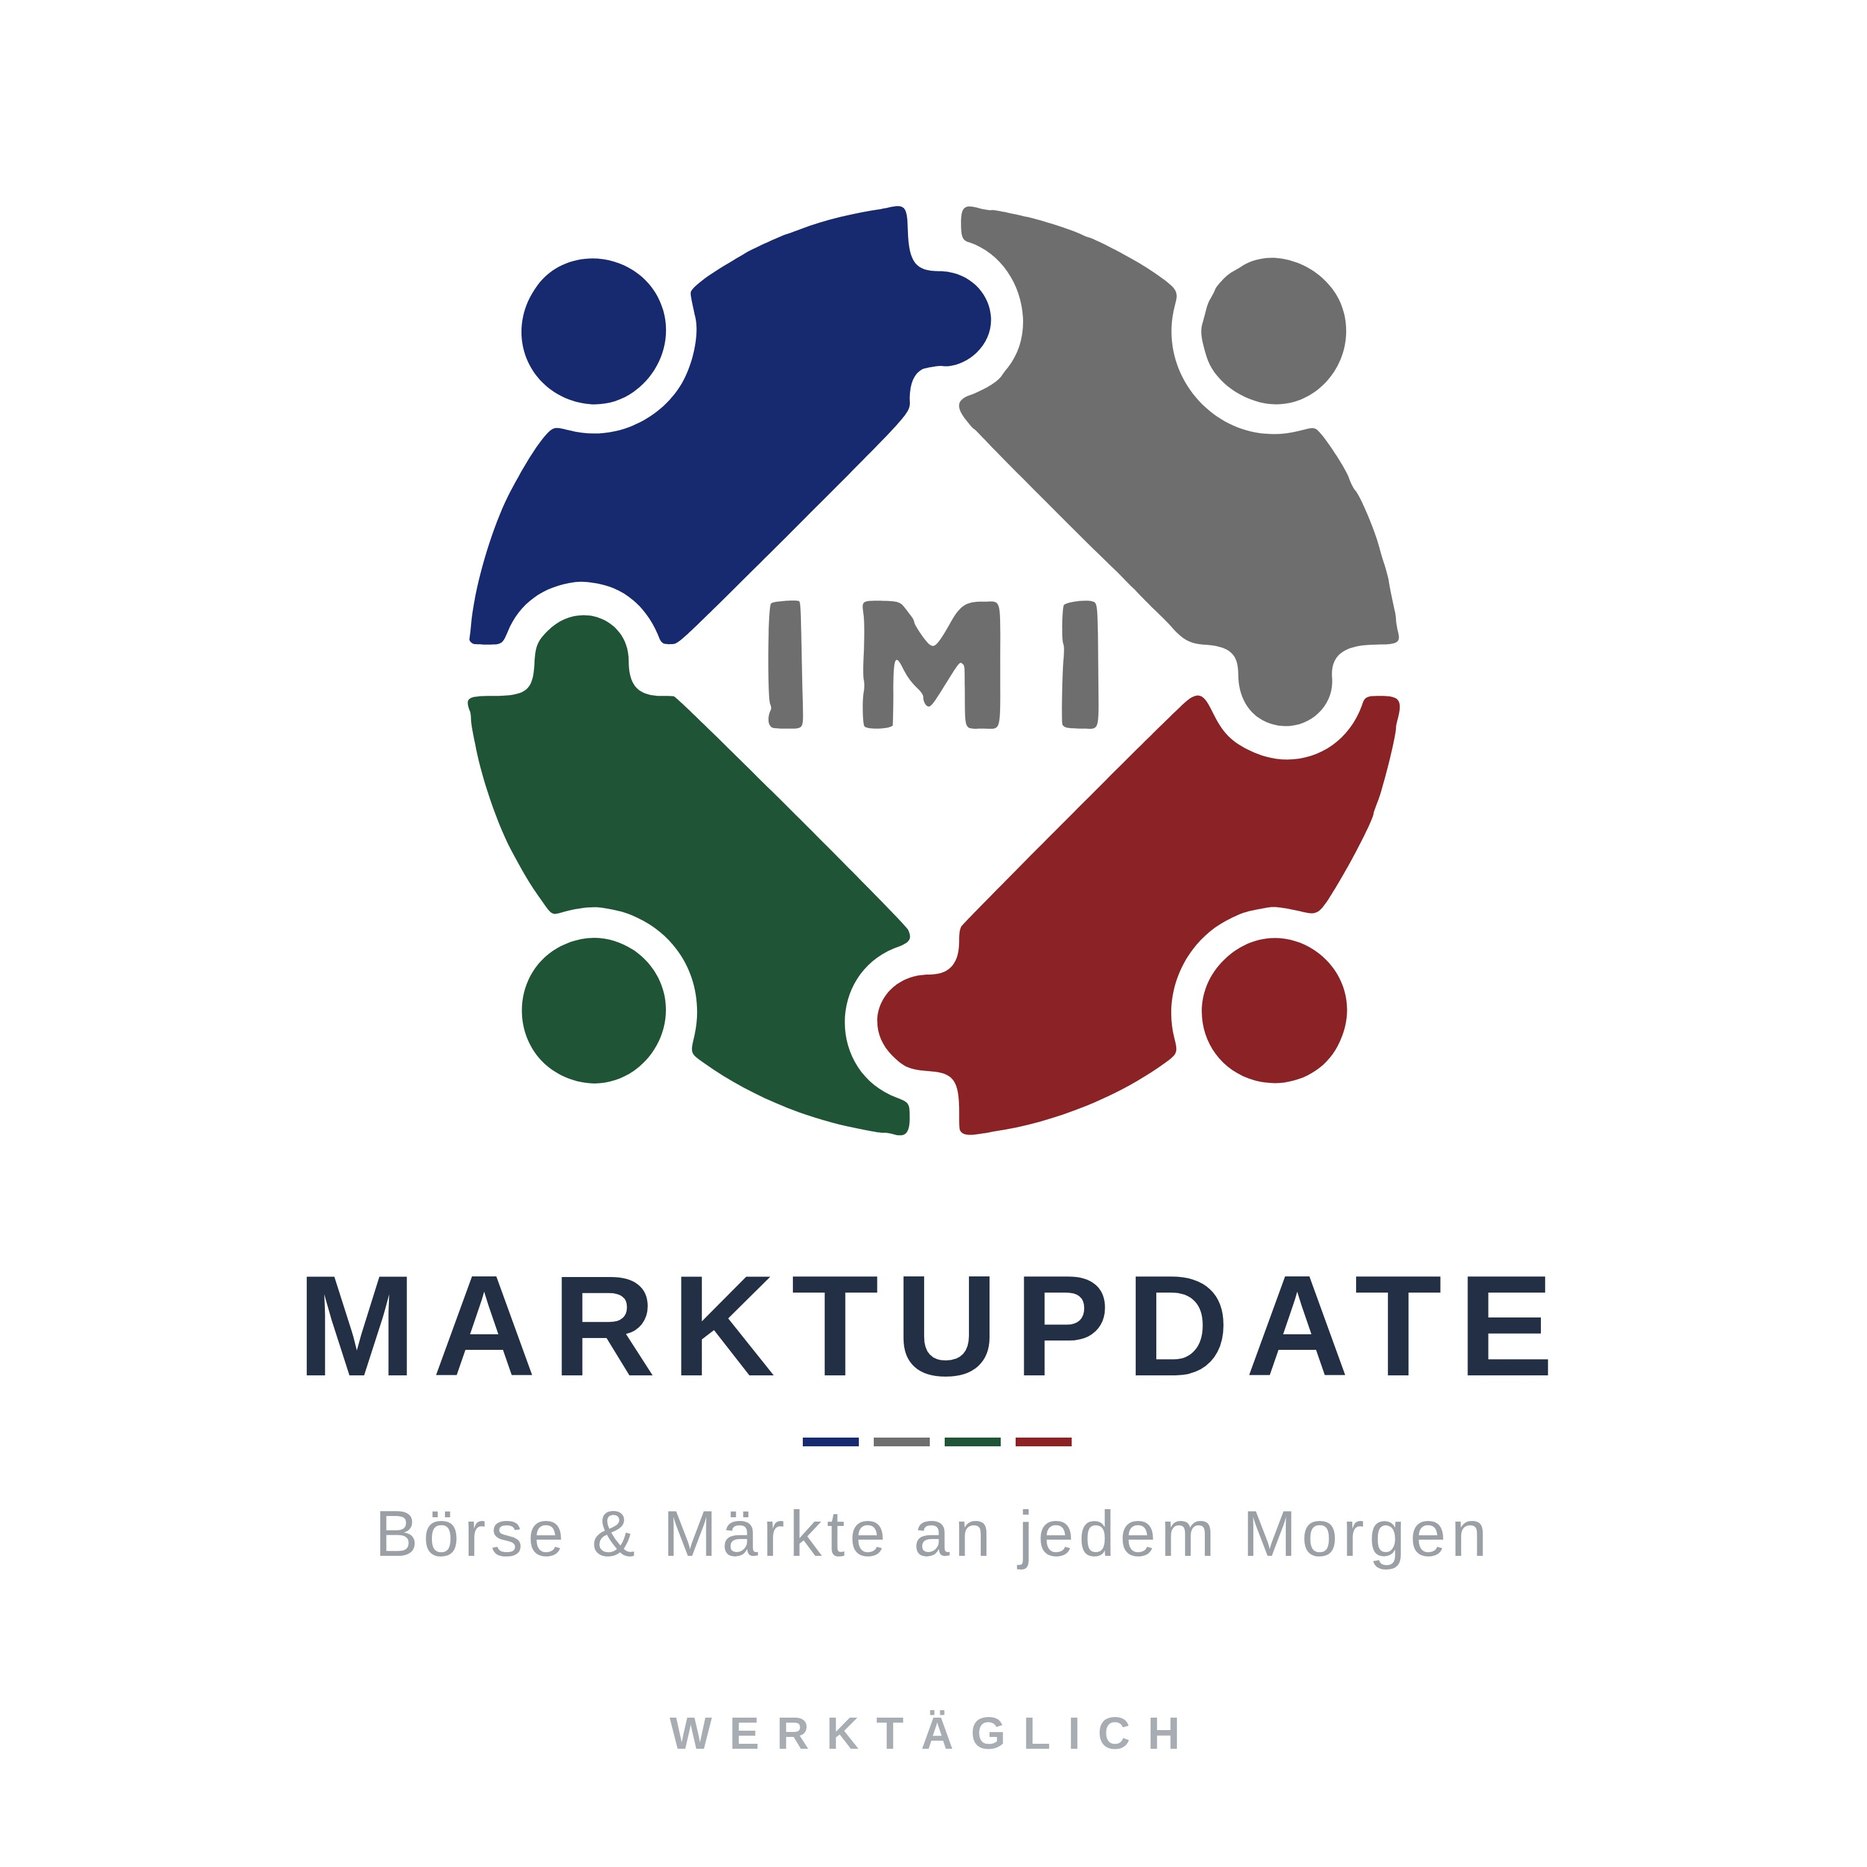
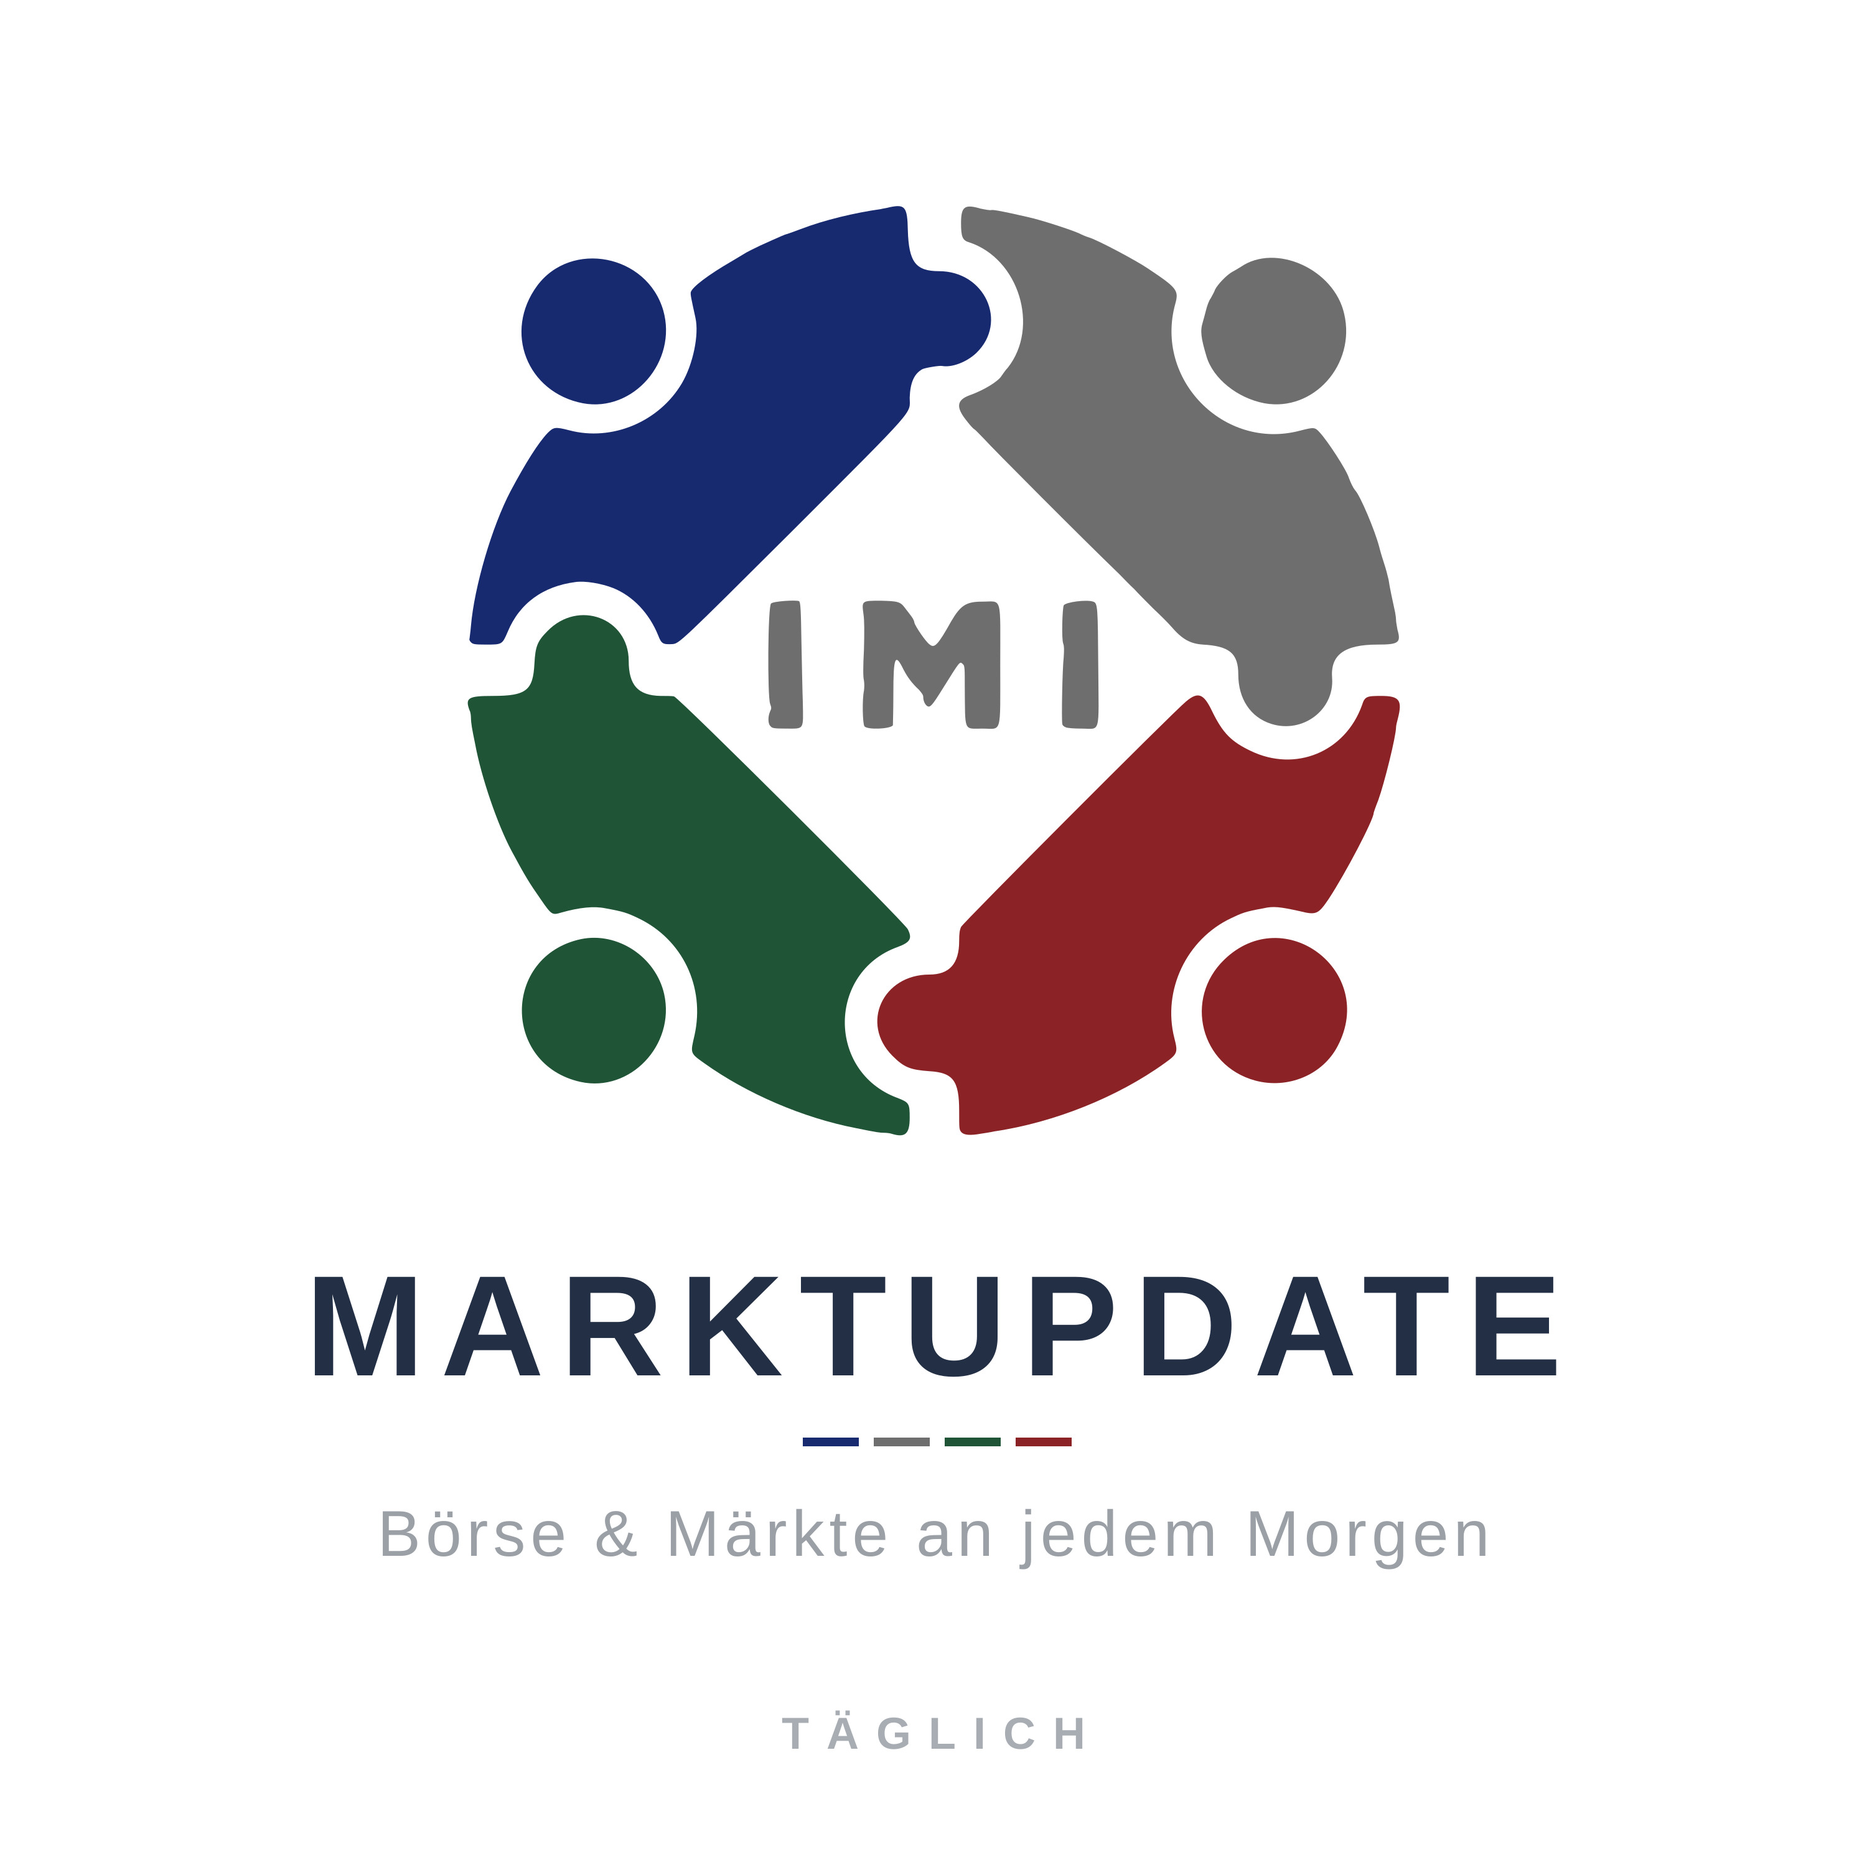
IM Invests statt IM Investments, und der Podcast erscheint taeglich
## Der Name

Die Marke heisst IM Invests. Die laengere Form stand an vier Stellen,
darunter in Begruessung und Abschluss jeder Folge -- sie wurde also jeden
Morgen zweimal laut ausgesprochen. Aufgefallen ist es beim Hoeren einer
Probe, nicht beim Lesen des Codes: Der falsche Name sieht plausibel aus,
weil er wie eine ausgeschriebene Fassung des richtigen wirkt. Deshalb steht
in tests/sprechfassung.test.ts jetzt eine Pruefung dagegen und nicht nur
eine Korrektur.

Nicht geaendert: assets/stimme-referenz.txt. Das ist kein Skript, sondern
die Mitschrift der Aufnahme -- sie gibt wieder, was gesagt wurde. Wer sie
berichtigt, verschiebt die Zuordnung von Laut zu Buchstabe fuer die ganze
Referenz und verschlechtert damit die geklonte Stimme, ohne dass irgendwo
etwas besser klaenge. Richtig wird es erst mit einer neuen Aufnahme; der
Grund steht im Kopf von scripts/stimme-erzeugen.py.

## Der Takt

Sieben Tage die Woche statt werktags. Das ist keine Zeile, sondern vier
Stellen:

1. Der Cron in podcast-erzeugen.yml (1-5 wird *), samt zweitem Eintrag fuer
   Sonntage und der Eingabe trotzdem.
2. Der Riegel im selben Workflow -- die Frage nach dem Erscheinungstag
   entfaellt, die nach dem doppelten Upload bleibt.
3. Derselbe Riegel im Anstoss aus kurse.yml, und mit ihm
   data/podcast-probetage.txt: eine Ausnahmeliste fuer ein Wochenende, an
   dem nichts erscheint, hat keinen Gegenstand mehr.
4. folgennummer() in lib/sprechfassung.ts.
[…]

diff --git a/lib/sprechfassung.ts b/lib/sprechfassung.ts
@@ -240,27 +240,46 @@ function zerlegeDatum(date: string): {
 }
 
 /**
- * Folgennummer: Werktage seit dem 30. Juli 2026, dem Tag der ersten Folge.
+ * Folgennummer – ab dem 10. August 2026 zählt **jeder** Tag.
  *
- * Die Zählung stammt aus der alten Arbeitsanweisung – 30.07. ist Folge 1,
- * 07.08. ist Folge 7 – und genau das ist die Zahl der Werktage im Zeitraum.
+ * Bis dahin erschien die Folge werktags, und die Nummer war die Zahl der
+ * Werktage seit dem 30. Juli 2026, dem Tag der ersten Folge: 30.07. ist
+ * Folge 1, 07.08. ist Folge 7. Sieben Folgen stehen so im Register.
  *
- * **An einem Probetag stimmt sie nicht.** Ein Wochenendtag zählt nicht mit,
- * also bekam die Probefolge vom Sonntag, dem 9. August 2026, dieselbe Nummer
- * wie die vom Freitag: beide 7. Solange werktags erscheint, ist das ohne
- * Folgen; eine Probe ist ohnehin dazu da, wieder zu verschwinden.
+ * Seit dem 9. August 2026 erscheint sie sieben Tage die Woche. Die Zählung
+ * einfach auf Kalendertage umzustellen, wäre falsch gewesen – der 10. August
+ * hätte dann Nummer 12 getragen, ein Sprung von 7 auf 12 mitten in der
+ * laufenden Reihe. Eine Folgennummer ist eine Ordnungszahl; sie darf keine
+ * Lücke bekommen, nur weil sich der Takt ändert.
  *
- * Wer den Podcast auf **täglich** umstellt (in `podcast-erzeugen.yml` ist das
- * eine Zeile), muss diese Funktion mit umstellen – sonst tragen Samstag,
- * Sonntag und Montag dieselbe Nummer. Die Zahl käme dann besser aus dem
- * Register selbst: die höchste vorhandene plus eins.
+ * Deshalb zwei Abschnitte mit einer Naht dazwischen:
+ *
+ *     bis 09.08.2026      Werktage seit dem 30.07.  →  7
+ *     ab  10.08.2026      7 + Kalendertage seit dem 09.08.
+ *
+ * Die Naht liegt auf dem 9. August, weil an diesem Tag keine Folge im
+ * Register steht: Die des Tages wurde zurückgenommen. Es gibt also keine
+ * veröffentlichte Nummer, die durch die Umstellung ihren Wert ändert.
+ *
+ * Bewusst ohne Blick ins Register: Diese Datei kommt ohne Laufzeitimporte
+ * aus, und eine Nummer, die von einer JSON-Datei abhängt, wäre in einem Test
+ * nicht mehr allein aus dem Datum vorhersagbar.
  */
+const TAKTWECHSEL = Date.UTC(2026, 7, 9, 12)
+const FOLGEN_BIS_TAKTWECHSEL = 7
+
 export function folgennummer(date: string): number {
   const start = Date.UTC(2026, 6, 30, 12)
   const ziel = (() => {
     const { jahr, monat, tag } = zerlegeDatum(date)
     return Date.UTC(jahr, monat - 1, tag, 12)
   })()
+
+  if (ziel > TAKTWECHSEL) {
+    const tage = Math.round((ziel - TAKTWECHSEL) / 86_400_000)
+    return FOLGEN_BIS_TAKTWECHSEL + tage
+  }
+
   let nummer = 0
   for (let t = start; t <= ziel; t += 86_400_000) {
     const wt = new Date(t).getUTCDay()
@@ -425,7 +444,7 @@ export function baueFolge(edition: DailyEdition): Podcastfolge {
     geschrieben wurde.
   */
   const einstieg =
-    `Guten Morgen und herzlich willkommen zum Marktupdate von IM Investments. ` +
+    `Guten Morgen und herzlich willkommen zum Marktupdate von IM Invests. ` +
     `Heute ist ${WOCHENTAGE[wochentag]}, der ${ordnungszahl(tag)} ${MONATE[monat - 1]} ` +
     `${zahlwort(jahr)}. ${sprechbar(edition.intro)}`
 
@@ -437,10 +456,16 @@ export function baueFolge(edition: DailyEdition): Podcastfolge {
   const lehre = alle[0]?.whyItMatters ?? ''
   const fazit = `Bleibt das Fazit. ${sprechbar(lehre)}`
 
+  /*
+    Ein Abschluss für alle Tage.
+
+    Bis zum 9. August 2026 stand freitags „Bis Montag früh, schönes
+    Wochenende" – richtig, solange samstags und sonntags nichts erschien.
+    Seither erscheint die Folge täglich, und der Satz wäre eine Ankündigung,
+    die nicht eintrifft: Am Samstag früh steht die nächste da.
+  */
   const abschluss =
-    wochentag === 5
-      ? 'Das war das Marktupdate von IM Investments. Alle Themen ausführlich und mit Einordnung findest du auf iminvests punkt de. Bis Montag früh, schönes Wochenende und viel Erfolg.'
-      : 'Das war das Marktupdate von IM Investments. Alle Themen ausführlich und mit Einordnung findest du auf iminvests punkt de. Bis morgen früh und viel Erfolg.'
+    'Das war das Marktupdate von IM Invests. Alle Themen ausführlich und mit Einordnung findest du auf iminvests punkt de. Bis morgen früh und viel Erfolg.'
 
   /*
     Erst alles mit Einordnung, dann von hinten kürzen: zuerst verlieren die

diff --git a/tests/sprechfassung.test.ts b/tests/sprechfassung.test.ts
@@ -98,7 +98,7 @@ const folge = baueFolge(edition)
 pruefe(
   'Sprechtext beginnt mit der festen Begrüßung',
   folge.sprechtext.startsWith(
-    'Guten Morgen und herzlich willkommen zum Marktupdate von IM Investments.'
+    'Guten Morgen und herzlich willkommen zum Marktupdate von IM Invests.'
   ),
   true
 )
@@ -106,6 +106,23 @@ pruefe(
   'Sprechtext endet auf „viel Erfolg.“',
   folge.sprechtext.endsWith('viel Erfolg.'),
   true
+)
+/*
+  Die Marke heißt **IM Invests**, nicht „IM Investments".
+
+  Bis zum 9. August 2026 stand die längere Form an vier Stellen, darunter in
+  Begrüßung und Abschluss jeder Folge – sie wurde also jeden Morgen zweimal
+  laut ausgesprochen. Aufgefallen ist es dem Betreiber beim Hören einer
+  Probe, nicht beim Lesen des Codes: Der falsche Name sieht plausibel aus,
+  weil er wie eine ausgeschriebene Fassung des richtigen wirkt.
+
+  Genau deshalb steht hier eine Prüfung und nicht nur eine Korrektur. Ein
+  Name, der sich von selbst „vervollständigt", kommt zurück.
+*/
+pruefe(
+  'Sprechtext nennt nirgends „IM Investments"',
+  /IM Investments/.test(folge.sprechtext),
+  false
 )
 pruefe('Fazit-Absatz vorhanden', folge.sprechtext.includes('Bleibt das Fazit.'), true)
 pruefe('keine Ziffern im Sprechtext', /\d/.test(folge.sprechtext), false)

diff --git a/scripts/podcast-feed-schreiben.ts b/scripts/podcast-feed-schreiben.ts
@@ -111,7 +111,7 @@ if (modus === 'eintragen') {
 
 /* Der Feed – in beiden Betriebsarten neu geschrieben. */
 const kopfBeschreibung =
-  'Dein tägliches Marktupdate von IM Investments. Werktäglich am Morgen fassen wir ' +
+  'Dein tägliches Marktupdate von IM Invests. Jeden Morgen fassen wir ' +
   'kompakt in rund fünf Minuten die wichtigsten Entwicklungen an den Finanzmärkten ' +
   'zusammen: Aktien, Anleihen, Rohstoffe, Notenbanken – immer mit Einordnung, was ' +
   'das für Privatanleger bedeutet. Text und Vertonung entstehen mit Unterstützung ' +

diff --git a/lib/instagram-bild.tsx b/lib/instagram-bild.tsx
@@ -6,7 +6,7 @@ import { ImageResponse } from 'next/og'
 import type { DailyEdition, EditionItem } from '@/data/editions/types'
 
 /**
- * Die Kachel, die werktäglich zu Instagram geht.
+ * Die Kachel, die täglich zu Instagram geht.
  *
  * ## Warum dieselbe Technik wie die Vorschaubilder
  *

diff --git a/scripts/stimme-erzeugen.py b/scripts/stimme-erzeugen.py
@@ -22,6 +22,17 @@ Wörtern zu trennen; ohne ihn klont es den Klang der Sätze mit.
 wurde, verschiebt die Zuordnung von Laut zu Buchstabe für die ganze
 Aufnahme – das ist schlimmer als ein fehlender Text.
 
+Deshalb steht in `stimme-referenz.txt` bis heute „IM Investments", obwohl
+die Marke **IM Invests** heißt und der Sprechtext seit dem 9. August 2026
+überall korrigiert ist. Der Wortlaut ist kein Skript, sondern eine
+Mitschrift: Er gibt wieder, was auf der Aufnahme gesagt wurde, und das ist
+nun einmal die falsche Form. Wer ihn „berichtigt", verschlechtert die
+Stimme, ohne dass irgendwo etwas besser klänge – gesprochen wird die
+Referenz nie, sie dient nur dem Abgleich.
+
+Richtig wird es erst mit einer **neuen Aufnahme**. Wer eine macht, sagt
+„IM Invests" und trägt genau das hier ein.
+
 Format: WAV, 24 kHz, mono, 16 Bit. Eine Sprachnachricht vom Telefon kommt
 als AAC in Stereo und muss umgerechnet werden:
 

diff --git a/scripts/stimme-messen.py b/scripts/stimme-messen.py
@@ -38,7 +38,7 @@ REPO = f"Qwen/Qwen3-TTS-12Hz-{GROESSE}-Base"
 # Rund 30 Sekunden Sprache – lang genug für eine belastbare Messung,
 # kurz genug, dass ein aussichtsloser Versuch nicht 20 Minuten kostet.
 STANDARDPROBE = (
-    "Guten Morgen und herzlich willkommen zum Marktupdate von IM Investments. "
+    "Guten Morgen und herzlich willkommen zum Marktupdate von IM Invests. "
     "Heute ist Montag, der zehnte August zweitausendsechsundzwanzig. "
     "Ein schwacher US-Jobbericht schickt den DAX auf Rekordkurs, Gold steigt "
     "den dritten Tag in Folge, und zwei Großbanken verpacken den KI-Boom in "

diff --git a/AGENTS.md b/AGENTS.md
@@ -164,27 +164,49 @@ anderes kennt; im Sommer sind das zwei Stunden weniger, im Winter eine.
 Die Routine **„Zeitumstellung"** zieht sie zweimal im Jahr gemeinsam um eine
 Stunde nach. Wer eine Zeit ändert, ändert alle.
 
-### Am Wochenende erscheint keine Folge – außer an einem Probetag
+### Die Folge erscheint **täglich** – seit dem 9. August 2026
 
-`podcast-erzeugen.yml` läuft werktags. Das ist gewollt: Die Montagsfolge deckt
-Freitag bis Montag ab.
+Sieben Tage die Woche, 365 Tage im Jahr. So hat der Betreiber es festgelegt.
 
-Damit lässt sich der volle Weg **bis zum Upload** an einem Wochenende aber
-nicht prüfen, und ein Lauf mit `nur_proben` überspringt genau die Schritte, auf
-die es ankommt – YouTube und Server. Dafür gibt es
-`data/podcast-probetage.txt`: Steht der heutige Tag dort, gilt er als Werktag,
-und es wird wirklich veröffentlicht.
+Davor lief `podcast-erzeugen.yml` werktags, und daran hingen vier Dinge, die
+alle mit umgestellt werden mussten. Wer den Takt je wieder ändert, findet
+hier die Liste:
 
-Zwei Wege stoßen ihn an, wie überall hier: der eigene Sonntags-Cron um 02:53
-UTC und, falls der verworfen wird, der Anstoß aus `kurse.yml` um 03:08. Ohne
-Eintrag endet der Sonntagslauf nach zwanzig Sekunden.
+1. **Der Cron** in `podcast-erzeugen.yml` – `1-5` wurde `*`. Der zweite
+   Eintrag für Sonntage und die Eingabe `trotzdem` sind entfallen.
+2. **Der Riegel im selben Workflow** – die Frage „ist heute ein
+   Erscheinungstag?" gibt es nicht mehr. Geblieben ist nur die nach dem
+   doppelten Upload.
+3. **Der Anstoß aus `kurse.yml`** – dort stand derselbe Wochenend-Riegel.
+   Zusammen mit ihm ist `data/podcast-probetage.txt` weggefallen: eine
+   Ausnahmeliste für ein Wochenende, an dem nichts erscheint, hat keinen
+   Gegenstand mehr.
+4. **`folgennummer()` in `lib/sprechfassung.ts`** – siehe unten, das ist die
+   heikelste Stelle.
 
-Die Daten tragen das Jahr. Ein stehengebliebener Eintrag kann deshalb nicht
-im nächsten Jahr erneut feuern; alte Zeilen sind Protokoll.
+Der Nachrichtenlauf lief ohnehin schon täglich; die Tagesausgabe, die der
+Podcast vertont, ist also auch am Samstag da.
 
-**Soll die Folge später täglich erscheinen**, ist das eine Zeile: `1-5` wird
-`*`, der Sonntags-Cron und der Riegel fallen weg. Bis dahin bleibt es bei
-werktags.
+Der Abschlusssatz ist außerdem für alle Tage derselbe. Freitags stand
+„Bis Montag früh, schönes Wochenende" – eine Ankündigung, die jetzt nicht
+mehr einträfe.
+
+#### Die Folgennummer darf keine Lücke bekommen
+
+Die naheliegende Umstellung wäre gewesen, statt Werktagen einfach
+Kalendertage seit dem 30. Juli 2026 zu zählen. Das Ergebnis: Der 10. August
+hätte Folge **12** getragen, obwohl im Register Folge 7 die letzte ist.
+
+Eine Folgennummer ist eine Ordnungszahl. Sie darf nicht springen, nur weil
+sich der Takt ändert. `folgennummer()` zählt deshalb zweiteilig, mit einer
+Naht am 9. August:
+
+    bis 09.08.2026     Werktage seit dem 30.07.        →  7
+    ab  10.08.2026     7 + Kalendertage seit dem 09.08. →  8, 9, 10 …
+
+Die Naht liegt genau dort, weil am 9. August keine Folge im Register steht –
+die des Tages wurde zurückgenommen. Es gibt also keine veröffentlichte
+Nummer, die durch die Umstellung ihren Wert ändert.
 
 ### Wie sich das rechnet
 
